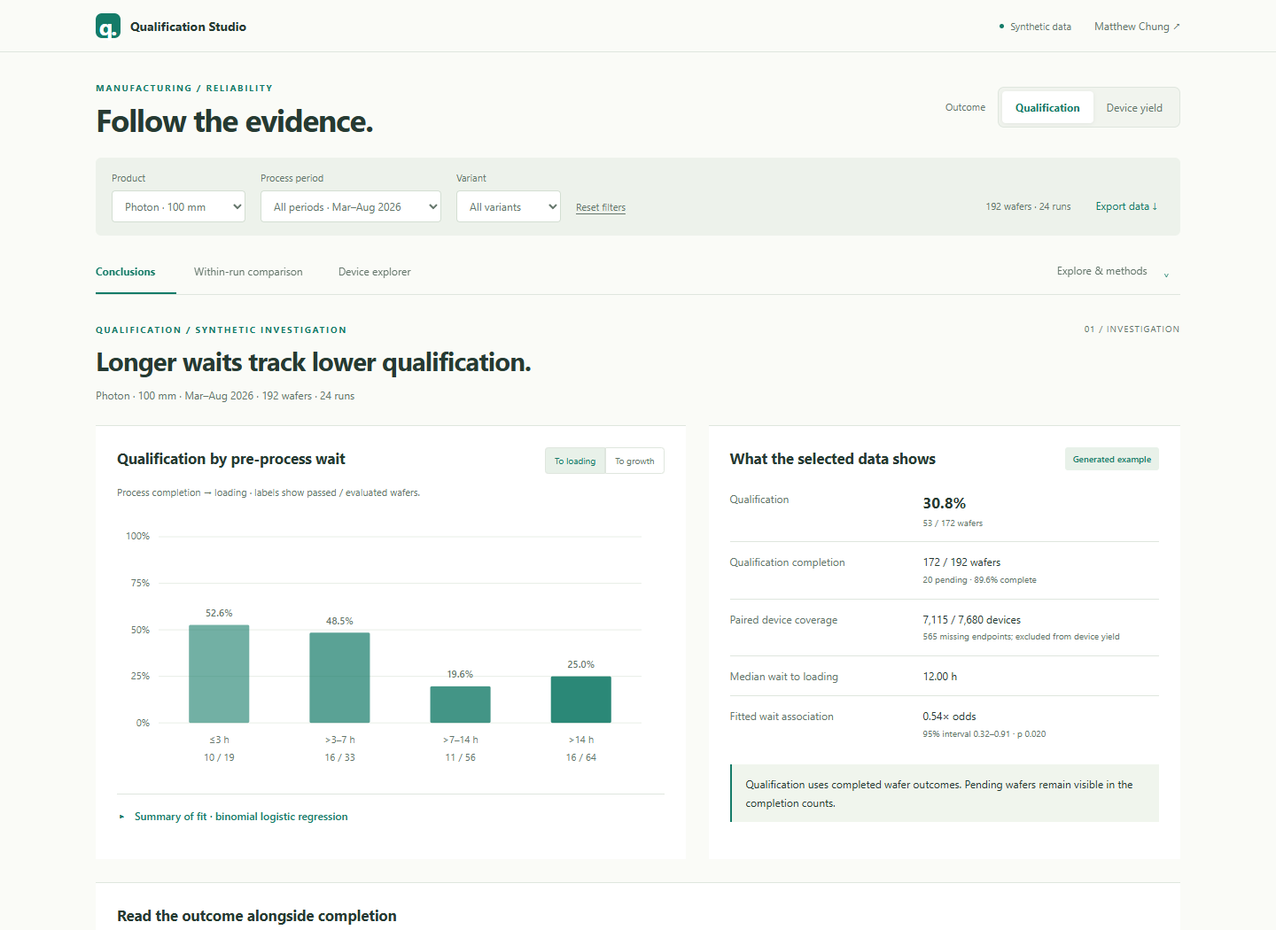
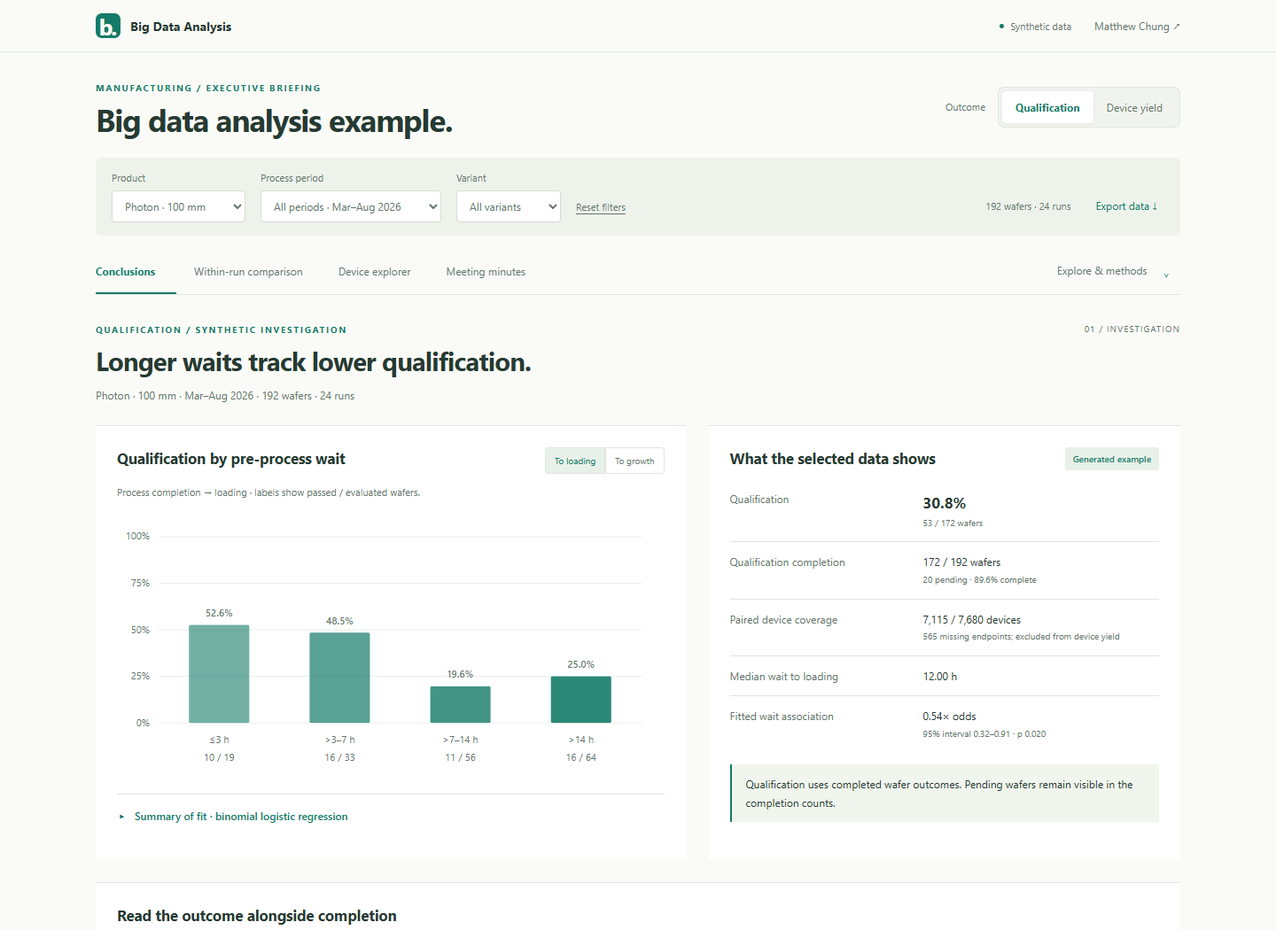
Frame demo as Big Data Analysis and add meeting follow-up
Link review decisions to analysis views and distinguish actual published changes
from illustrative minutes and browser-local visitor notes.

Changed region(s): [[0.0625, 0.0914, 0.3438, 0.1524], [0.0938, 0.0, 0.1875, 0.0305], [0.3438, 0.2743, 0.4062, 0.3048]]

diff --git a/demos/qualification-studio/dist/app.js b/demos/qualification-studio/dist/app.js
@@ -34,6 +34,10 @@ Object.keys(PRODUCTS).forEach((product,p)=>MONTHS.forEach((month,m)=>{
   }
 }));
 const state={product:'photon100',period:'all',variant:'all',metric:'qualification',view:'conclusions',endpoint:'wait',run:null,wafer:'all',search:'',page:0,sort:'id',asc:true};
+const NOTE_KEY='manufacturing-analysis-review-notes-v1';
+let reviewNotes=[];
+try{const stored=JSON.parse(localStorage.getItem(NOTE_KEY)||'[]');if(Array.isArray(stored))reviewNotes=stored.filter(n=>n&&typeof n.text==='string'&&typeof n.scope==='string'&&typeof n.id==='string'&&Number.isFinite(Date.parse(n.createdAt))).slice(-50);}catch{}
+let noteMessage='';
 const $=s=>document.querySelector(s),$$=s=>[...document.querySelectorAll(s)];
 const selected=()=>WAFERS.filter(w=>(state.product==='all'||w.product===state.product)&&(state.period==='all'||w.monthIndex===+state.period)&&(state.variant==='all'||w.variant===state.variant));
 function counts(wafers){if(state.metric==='bi')return {passed:sum(wafers.map(w=>w.passed)),tested:sum(wafers.map(w=>w.tested)),unit:'devices'};const done=wafers.filter(w=>w.status!=='Pending');return {passed:done.filter(w=>w.status==='Pass').length,tested:done.length,unit:'wafers'};}
@@ -42,7 +46,7 @@ const badge=s=>`<span class="result ${s==='Non-pass'?'fail':s==='Pending'?'pendi
 const context=rows=>`${state.product==='all'?'All products':PRODUCTS[state.product]} · ${state.period==='all'?'Mar–Aug 2026':MONTHS[+state.period]} · ${fmt(rows.length)} wafers · ${new Set(rows.map(w=>w.run)).size} runs`;
 function head(title,rows,number='01'){return `<div class="section-head"><div><span class="eyebrow">${escape(metricLabel().toUpperCase())} / SYNTHETIC INVESTIGATION</span><h2>${title}</h2><p class="context">${escape(context(rows))}</p></div><span class="section-number">${number} / INVESTIGATION</span></div>`;}
 function table(headers,rows){return `<div class="table-scroll"><table class="data-table"><thead><tr>${headers.map(h=>`<th scope="col">${h}</th>`).join('')}</tr></thead><tbody>${rows.map(r=>`<tr>${r.map(c=>`<td>${c}</td>`).join('')}</tr>`).join('')}</tbody></table></div>`;}
-function panel(title,body){return `<section class="panel"><h3>${title}</h3>${body}</section>`;}
+function panel(title,body,id=''){return `<section class="panel"${id?` id="${escape(id)}"`:''}><h3>${title}</h3>${body}</section>`;}
 const note=s=>`<p class="small-note">${s}</p>`;
 function svg(body,label,w=720,h=350){return `<svg viewBox="0 0 ${w} ${h}" role="img" aria-label="${escape(label)}">${body}</svg>`;}
 const t=(x,y,s,opts='')=>`<text x="${x}" y="${y}" font-size="13" fill="${C.muted}" ${opts}>${escape(s)}</text>`;
@@ -106,7 +110,19 @@ function recordsView(rows){const filtered=rows.filter(w=>`${w.id} ${w.run} ${w.s
   return head('Every number has a source row.',rows,'04')+`<section class="panel"><div class="toolbar"><label>Find a wafer or run<input id="record-search" type="search" placeholder="e.g. DEMO-0001" value="${escape(state.search)}"></label><button class="export-button" data-export="wafers">Export selected cohort · CSV ↓</button></div>${table([sort('Wafer','id'),sort('Run','run'),'Variant','Period',sort('Wait to load','wait'),sort('Qualification','status'),sort('Device yield','yield')],sliced.map(w=>[waferLink(w),w.run,w.variant,w.month,fmt(w.wait,2)+' h',badge(w.status),`${percent(w.passed,w.tested)} (${w.passed}/${w.tested})`]))}<div class="pagination"><span>${fmt(filtered.length)} matching wafers · page ${state.page+1} of ${pages}</span><button data-page="-1" ${state.page===0?'disabled':''}>← Previous</button><button data-page="1" ${state.page===pages-1?'disabled':''}>Next →</button></div></section>`;
 }
 function methodsView(rows){return head('Definitions stay close to the evidence.',rows,'05')+panel('What this demo measures',`<dl class="definition-list"><dt>Qualification</dt><dd>Passed wafers divided by completed wafer outcomes. Pending results are excluded from this denominator and shown separately.</dd><dt>Device yield</dt><dd>Passing devices divided by devices with an evaluable baseline/24-hour pair. Both fictional limits must be met: drive drift &lt; ${LIMITS.drift}; response retention &gt; ${LIMITS.retention}. These are demo limits, not operating specifications.</dd><dt>Waiting intervals</dt><dd>Elapsed hours from a fictional preparation step to recorded loading or growth start. Both endpoints are retained on every wafer row.</dd><dt>Run quarters</dt><dd>Each generated run has eight wafers. Positions 1–2 form Q1, 3–4 form Q2, 5–6 form Q3, and 7–8 form Q4. Filtering an outcome does not renumber original positions.</dd><dt>Recent completion</dt><dd>The generator makes recent results less complete, with failures tending to resolve sooner. Completion counts make that selection visible.</dd><dt>Fitted association</dt><dd>A two-parameter binomial logistic model uses an intercept and log₂(1 + wait hours). Device fits use passing/tested counts. Sandwich uncertainty is clustered by run. Odds ratios refer to odds, not direct multiples of the qualification rate.</dd><dt>Synthetic boundary</dt><dd>All ${WAFERS.length} wafers, ${new Set(WAFERS.map(w=>w.run)).size} runs, and ${fmt(CHIPS.length)} device records are generated deterministically in your browser. There are no database connections, production records, or real engineering conclusions.</dd><dt>Scope</dt><dd>This independent demo demonstrates investigation and presentation patterns. Its small model does not reproduce the internal application's production models, process rules, or source systems.</dd></dl>`)+panel('Use the product',`<p class="context">Change product, period, or variant to select a cohort. Switch outcomes to compare wafer Qualification with device yield. Open a run to see its wafer positions, then click a wafer to inspect paired measurements. CSV exports preserve the selected cohort.</p><p><a href="https://github.com/4sy8zwp9hz-netizen/manufacturing-software-portfolio/tree/main/demos/qualification-studio">Inspect the complete demo source ↗</a></p>`);}
-function render(){const rows=selected();$('#scope-count').textContent=`${fmt(rows.length)} wafers · ${new Set(rows.map(w=>w.run)).size} runs`;$$('[data-metric]').forEach(b=>b.setAttribute('aria-pressed',String(b.dataset.metric===state.metric)));$$('[role=tab]').forEach(b=>b.setAttribute('aria-selected',String(b.dataset.view===state.view)));$('#explore-menu').classList.toggle('active',['records','methods'].includes(state.view));const content=$('#content');content.dataset.view=state.view;content.setAttribute('aria-label',({conclusions:'Conclusions',runs:'Within-run comparison',devices:'Device explorer',records:'Wafer records',methods:'Definitions and methods'})[state.view]);content.innerHTML=rows.length?({conclusions,runs:runsView,devices:devicesView,records:recordsView,methods:methodsView})[state.view](rows):'<div class="empty">No wafers match this selection. Try resetting the filters.</div>';$('#tooltip').hidden=true;}
+function minutesView(rows){
+  const feedback=[
+    ['Executive presentation','Lead with the conclusion and the counts behind it.','A concise readout, followed by charts and expandable fit details.','conclusions','Open the briefing'],
+    ['Comparable evidence','Compare run mates before interpreting the position trend.','Quarter summaries, run-level comparisons, and every wafer in a selected run.','runs','Compare run mates'],
+    ['Auditable conclusions','Inspect the measurements and their denominator.','Paired device readings, missing-data coverage, and CSV export.','devices','Inspect devices'],
+  ];
+  const draftItems=reviewNotes.slice().reverse().map(n=>`<li><div><time datetime="${escape(n.createdAt)}">${escape(new Intl.DateTimeFormat(undefined,{dateStyle:'medium',timeStyle:'short'}).format(new Date(n.createdAt)))}</time><button class="text-button" data-remove-note="${escape(n.id)}" aria-label="Remove local note">Remove</button></div><p>${escape(n.text)}</p><small>${escape(n.scope)}</small></li>`).join('');
+  return `<div class="section-head"><div><span class="eyebrow">REVIEW / DECISIONS / FOLLOW-UP</span><h2>A review becomes a visible update.</h2><p class="context">Discussion, decisions, and the evidence to revisit.</p></div><span class="status-tag">Current release · October 15, 2026</span></div>`+
+    `<section class="panel"><div class="panel-title"><h3>Illustrative engineering review</h3><span class="status-tag">Example minutes</span></div>${note('Sample discussion points demonstrate the workflow; they are not a record of a production meeting.')}${table(['Discussion','Decision','Available in the demo','Evidence'],feedback.map(r=>[r[0],r[1],r[2],`<button class="link-button" data-view="${r[3]}">${r[4]} ↗</button>`]))}</section>`+
+    `<div class="section-grid"><section class="panel"><h3>Published follow-up</h3><p class="small-note">Actual changes to this public portfolio demo.</p><ol class="release-list"><li><time>October 15, 2026</time><strong>Working example published</strong><p>Replaced an explanation-only entry with an interactive application: filters, outcome switching, charts, drilldowns, and exports.</p></li><li><time>October 15, 2026 · Review follow-up</time><strong>Big Data Analysis — Interactive Example</strong><p>Updated the title and framing around executive presentation, manufacturing data analysis, clear conclusions, and interactive review. Added this Meeting minutes tab in response to portfolio feedback.</p></li></ol><div class="callout">Review feedback becomes a published revision. Filters recalculate charts immediately; shared content changes when a new version is published.</div></section>`+
+    `<section class="panel"><h3>Try capturing a review note</h3>${note('Saved only in this browser. Visitor notes are never published to the shared site.')}<form id="minutes-form"><label for="review-note">Discussion or follow-up</label><textarea id="review-note" name="note" rows="3" maxlength="600" required placeholder="What should we investigate next?"></textarea><div class="note-form-footer"><span>${escape(context(rows))}</span><button type="submit" class="export-button">Save local note</button></div></form><p id="note-status" class="small-note" role="status">${escape(noteMessage)}</p><ul class="review-notes">${draftItems||'<li class="no-notes">No local notes yet. Add one to try the review workflow.</li>'}</ul></section></div>`;
+}
+function render(){const rows=selected();$('#scope-count').textContent=`${fmt(rows.length)} wafers · ${new Set(rows.map(w=>w.run)).size} runs`;$$('[data-metric]').forEach(b=>b.setAttribute('aria-pressed',String(b.dataset.metric===state.metric)));$$('[role=tab]').forEach(b=>b.setAttribute('aria-selected',String(b.dataset.view===state.view)));$('#explore-menu').classList.toggle('active',['records','methods'].includes(state.view));const content=$('#content');content.dataset.view=state.view;content.setAttribute('aria-label',({conclusions:'Conclusions',runs:'Within-run comparison',devices:'Device explorer',minutes:'Meeting minutes',records:'Wafer records',methods:'Definitions and methods'})[state.view]);content.innerHTML=(rows.length||state.view==='minutes')?({conclusions,runs:runsView,devices:devicesView,minutes:minutesView,records:recordsView,methods:methodsView})[state.view](rows):'<div class="empty">No wafers match this selection. Try resetting the filters.</div>';$('#tooltip').hidden=true;}
 function setView(view){state.view=view;location.hash=view==='conclusions'?'':view;render();const el=$('#content');el.classList.remove('view-enter');void el.offsetWidth;el.classList.add('view-enter');$$('details[open]').forEach(d=>d.open=false);const anchor=$('#nav-anchor').getBoundingClientRect().top+scrollY;if(scrollY>anchor+80)window.scrollTo({top:anchor,behavior:matchMedia('(prefers-reduced-motion: reduce)').matches?'instant':'smooth'});}
 function exportCSV(kind){let rows=selected(),records,name;if(kind==='visible-chips'&&state.wafer!=='all')rows=rows.filter(w=>w.id===state.wafer);if(kind==='chips'||kind==='visible-chips'){name='synthetic-device-records.csv';records=rows.flatMap(w=>w.chips).map(c=>({wafer:c.wafer,run:c.run,device:c.device,product:PRODUCTS[c.product],period:c.month,baseline_drive:c.baselineDrive,drive_24h:c.drive24,baseline_response:c.baselineResponse,response_24h:c.response24,drive_drift:c.drift,response_retention:c.retention,screen_pass:c.pass===null?'':c.pass}));}else{name='synthetic-wafer-records.csv';records=rows.map(w=>({wafer:w.id,run:w.run,product:PRODUCTS[w.product],variant:w.variant,period:w.month,position:w.position,quarter:w.quarter,wait_to_load_hours:w.wait,wait_to_growth_hours:w.growthWait,qualification:w.status,device_passed:w.passed,device_evaluable:w.tested,device_yield:w.tested?w.passed/w.tested:null,median_drive_drift:w.drift,median_response_retention:w.retention}));}if(!records.length)return;const fields=Object.keys(records[0]),cell=v=>'"'+String(v??'').replace(/"/g,'""')+'"',csv=[fields.join(','),...records.map(r=>fields.map(f=>cell(r[f])).join(','))].join('\r\n');const url=URL.createObjectURL(new Blob([csv],{type:'text/csv;charset=utf-8'})),a=document.createElement('a');a.href=url;a.download=name;a.click();setTimeout(()=>URL.revokeObjectURL(url),1000);$$('details[open]').forEach(d=>d.open=false);}
 MONTHS.forEach((m,i)=>$('#period').insertAdjacentHTML('beforeend',`<option value="${i}">${m}</option>`));
@@ -114,6 +130,9 @@ document.addEventListener('click',event=>{const b=event.target.closest('button')
 document.addEventListener('click',event=>{const target=event.target.closest('circle[data-wafer]');if(target){state.wafer=target.dataset.wafer;setView('devices');}});
 document.addEventListener('change',event=>{const id=event.target.id;if(['product','period','variant'].includes(id)){state[id]=event.target.value;state.page=0;render();}else if(id==='run-select'){state.run=event.target.value;render();}else if(id==='wafer-select'){state.wafer=event.target.value;render();}});
 document.addEventListener('input',event=>{if(event.target.id==='record-search'){const pos=event.target.selectionStart;state.search=event.target.value;state.page=0;render();const input=$('#record-search');input.focus();input.setSelectionRange(pos,pos);}});
+function saveReviewNotes(){try{localStorage.setItem(NOTE_KEY,JSON.stringify(reviewNotes));return true;}catch{return false;}}
+document.addEventListener('submit',event=>{if(event.target.id!=='minutes-form')return;event.preventDefault();const text=$('#review-note').value.trim().slice(0,600);if(!text)return;reviewNotes.push({id:'note-'+Date.now()+'-'+Math.random().toString(36).slice(2,7),createdAt:new Date().toISOString(),text,scope:context(selected())+' · '+metricLabel()});reviewNotes=reviewNotes.slice(-50);noteMessage=saveReviewNotes()?'Note saved in this browser. The public site has not changed.':'Browser storage is unavailable; the note is kept for this session only.';render();$('#review-note').focus();});
+document.addEventListener('click',event=>{const b=event.target.closest('[data-remove-note]');if(!b)return;reviewNotes=reviewNotes.filter(n=>n.id!==b.dataset.removeNote);noteMessage=saveReviewNotes()?'Local note removed.':'Local note removed for this session.';render();});
 $('#reset').addEventListener('click',()=>{Object.assign(state,{product:'photon100',period:'all',variant:'all',wafer:'all',page:0,search:'',run:null,endpoint:'wait'});$('#product').value=state.product;$('#period').value='all';$('#variant').value='all';render();});
 document.addEventListener('pointerdown',event=>$$('details[open]').forEach(d=>{if(!d.contains(event.target))d.open=false;}));
 document.addEventListener('keydown',event=>{if(event.key==='Escape')$$('details[open]').forEach(d=>{d.open=false;d.querySelector('summary').focus();});if(event.target.matches('[role=tab]')&&['ArrowLeft','ArrowRight','Home','End'].includes(event.key)){event.preventDefault();const tabs=$$('[role=tab]'),i=tabs.indexOf(event.target),n=event.key==='Home'?0:event.key==='End'?tabs.length-1:(i+(event.key==='ArrowRight'?1:-1)+tabs.length)%tabs.length;tabs[n].focus();setView(tabs[n].dataset.view);}});
@@ -122,6 +141,6 @@ document.addEventListener('pointerleave',()=>$('#tooltip').hidden=true);
 let lastY=scrollY,dir=0,startY=scrollY,scrollFrame=false;
 function navigation(){scrollFrame=false;const nav=$('#navigation'),y=scrollY,next=Math.sign(y-lastY);if(next&&next!==dir){dir=next;startY=lastY;}const top=$('#nav-anchor').getBoundingClientRect().top+y;if(y<top+50||nav.querySelector(':focus-visible,details[open]'))nav.classList.remove('hide-nav');else if(Math.abs(y-startY)>18)nav.classList.toggle('hide-nav',dir>0);lastY=y;}
 addEventListener('scroll',()=>{if(!scrollFrame){scrollFrame=true;requestAnimationFrame(navigation);}},{passive:true});
-addEventListener('hashchange',()=>{const view=location.hash.slice(1)||'conclusions';if(['conclusions','runs','devices','records','methods'].includes(view)&&view!==state.view){state.view=view;render();}});
-if(['runs','devices','records','methods'].includes(location.hash.slice(1)))state.view=location.hash.slice(1);
+addEventListener('hashchange',()=>{const view=location.hash.slice(1)||'conclusions';if(['conclusions','runs','devices','minutes','records','methods'].includes(view)&&view!==state.view){state.view=view;render();}});
+if(['runs','devices','minutes','records','methods'].includes(location.hash.slice(1)))state.view=location.hash.slice(1);
 render();

diff --git a/demos/qualification-studio/dist/index.html b/demos/qualification-studio/dist/index.html
@@ -3,16 +3,16 @@
 <head>
 <meta charset="utf-8"><meta name="viewport" content="width=device-width,initial-scale=1">
 <meta name="description" content="Explore a working semiconductor qualification investigation with synthetic wafer, process, and reliability data. A portfolio demo by Matthew Chung.">
-<meta name="theme-color" content="#fafbf7"><title>Qualification Studio · Matthew Chung</title>
-<link rel="icon" href="icon.svg" type="image/svg+xml"><link rel="stylesheet" href="styles.css"><script src="app.js" defer></script>
+<meta name="theme-color" content="#fafbf7"><title>Big Data Analysis — Interactive Example · Matthew Chung</title>
+<link rel="icon" href="icon.svg" type="image/svg+xml"><link rel="stylesheet" href="styles.css"><link rel="stylesheet" href="meeting.css"><script src="app.js" defer></script>
 </head>
 <body>
 <a class="skip" href="#content">Skip to analysis</a>
-<header><div class="header-inner"><a class="brand" href="#conclusions"><span class="brand-mark" aria-hidden="true">q.</span> Qualification Studio</a><div class="header-right"><span class="demo-badge"><span></span> Synthetic data</span><a href="https://github.com/4sy8zwp9hz-netizen/manufacturing-software-portfolio">Matthew Chung ↗</a></div></div></header>
+<header><div class="header-inner"><a class="brand" href="#conclusions"><span class="brand-mark" aria-hidden="true">b.</span> Big Data Analysis</a><div class="header-right"><span class="demo-badge"><span></span> Synthetic data</span><a href="https://github.com/4sy8zwp9hz-netizen/manufacturing-software-portfolio">Matthew Chung ↗</a></div></div></header>
 <main>
-<div class="intro"><div><span class="eyebrow">MANUFACTURING / RELIABILITY</span><h1>Follow the evidence.</h1></div><div class="metric-control"><span>Outcome</span><div class="segment" role="group" aria-label="Outcome metric"><button data-metric="qualification" aria-pressed="true">Qualification</button><button data-metric="bi" aria-pressed="false">Device yield</button></div></div></div>
+<div class="intro"><div><span class="eyebrow">MANUFACTURING / EXECUTIVE BRIEFING</span><h1>Big data analysis example.</h1></div><div class="metric-control"><span>Outcome</span><div class="segment" role="group" aria-label="Outcome metric"><button data-metric="qualification" aria-pressed="true">Qualification</button><button data-metric="bi" aria-pressed="false">Device yield</button></div></div></div>
 <section class="filters" aria-label="Analysis filters"><label>Product<select id="product"><option value="photon100">Photon · 100 mm</option><option value="photon75">Photon · 75 mm</option><option value="ridge75">Ridge · 75 mm</option><option value="all">All products</option></select></label><label>Process period<select id="period"><option value="all">All periods · Mar–Aug 2026</option></select></label><label>Variant<select id="variant"><option value="all">All variants</option><option value="Standard">Standard</option><option value="Plus">Plus</option></select></label><button id="reset" class="text-button">Reset filters</button><div class="filter-end"><span id="scope-count"></span><details class="export-menu"><summary>Export data ↓</summary><div class="menu-items"><button data-export="wafers">Wafer records · CSV</button><button data-export="chips">Device records · CSV</button></div></details></div></section>
-<div id="nav-anchor"></div><nav id="navigation" aria-label="Investigation views"><div role="tablist" aria-label="Primary analyses"><button role="tab" id="tab-conclusions" aria-controls="content" aria-selected="true" data-view="conclusions">Conclusions</button><button role="tab" id="tab-runs" aria-controls="content" aria-selected="false" data-view="runs">Within-run comparison</button><button role="tab" id="tab-devices" aria-controls="content" aria-selected="false" data-view="devices">Device explorer</button></div><details id="explore-menu"><summary>Explore &amp; methods <span aria-hidden="true">⌄</span></summary><div class="menu-items"><button data-view="records">Wafer records</button><button data-view="methods">Definitions &amp; methods</button><a href="https://github.com/4sy8zwp9hz-netizen/manufacturing-software-portfolio/tree/main/demos/qualification-studio">View demo source ↗</a></div></details></nav>
+<div id="nav-anchor"></div><nav id="navigation" aria-label="Investigation views"><div role="tablist" aria-label="Primary analyses"><button role="tab" id="tab-conclusions" aria-controls="content" aria-selected="true" data-view="conclusions">Conclusions</button><button role="tab" id="tab-runs" aria-controls="content" aria-selected="false" data-view="runs">Within-run comparison</button><button role="tab" id="tab-devices" aria-controls="content" aria-selected="false" data-view="devices">Device explorer</button><button role="tab" id="tab-minutes" aria-controls="content" aria-selected="false" data-view="minutes">Meeting minutes</button></div><details id="explore-menu"><summary>Explore &amp; methods <span aria-hidden="true">⌄</span></summary><div class="menu-items"><button data-view="records">Wafer records</button><button data-view="methods">Definitions &amp; methods</button><a href="https://github.com/4sy8zwp9hz-netizen/manufacturing-software-portfolio/tree/main/demos/qualification-studio">View demo source ↗</a></div></details></nav>
 <div id="content" role="tabpanel" tabindex="-1" aria-live="polite"></div>
 <footer><div><strong>Matthew Chung</strong><span>Quality engineering · Manufacturing analytics · Product design</span></div><p>Interactive portfolio demo. All wafers, measurements, dates, and relationships are generated examples, not production results.</p><a href="https://github.com/4sy8zwp9hz-netizen/manufacturing-software-portfolio">Back to portfolio ↗</a></footer>
 </main><div id="tooltip" role="tooltip" hidden></div>

diff --git a/demos/qualification-studio/dist/meeting.css b/demos/qualification-studio/dist/meeting.css
@@ -1,0 +1,1 @@
+.release-list{list-style:none;margin:0;padding:0}.release-list li{padding:17px 0 20px 17px;border-left:2px solid var(--line);position:relative}.release-list li:before{content:'';width:7px;height:7px;border-radius:50%;background:var(--teal);position:absolute;left:-4.5px;top:22px}.release-list time{display:block;color:var(--muted);font-size:10px;line-height:1.6;margin-bottom:6px}.release-list strong{font-size:14px;font-weight:650;line-height:1.5}.release-list p{font-size:12px;color:var(--muted);margin:8px 0 0}.review-notes{list-style:none;padding:0;margin:0}.review-notes li{border-top:1px solid var(--line);padding:16px 0}.review-notes li>div{display:flex;align-items:center;justify-content:space-between;gap:14px}.review-notes time,.review-notes small{font-size:10px;color:var(--muted)}.review-notes p{font-size:12px;white-space:pre-wrap;overflow-wrap:anywhere;margin:7px 0}.review-notes .text-button{font-size:10px;padding:0}.no-notes{font-size:11px;color:var(--muted);line-height:1.7}#minutes-form label{font-size:11px;color:var(--muted);display:block;margin:16px 0 8px}#review-note{width:100%;resize:vertical;border:1px solid var(--line);border-radius:4px;padding:12px;font:12px/1.65 "Segoe UI",Arial,sans-serif;color:var(--ink);background:var(--paper)}#review-note:focus-visible{outline:2px solid var(--teal);outline-offset:3px}.note-form-footer{display:flex;justify-content:space-between;align-items:center;gap:16px;margin-top:10px}.note-form-footer>span{font-size:10px;line-height:1.6;color:var(--muted)}[data-view=minutes]>.section-head{align-items:center}[data-view=minutes] .data-table td{vertical-align:top}[data-view=minutes] .data-table td:last-child{min-width:150px}[data-view=minutes] .data-table .link-button{text-align:left;line-height:1.6}@media(max-width:600px){[data-view=minutes]>.section-head{display:block}[data-view=minutes]>.section-head>.status-tag{margin-top:12px}.note-form-footer{align-items:start;flex-direction:column}.note-form-footer>button{align-self:end}}

diff --git a/README.md b/README.md
@@ -29,20 +29,21 @@ The usage figure shows adoption; it is not presented as measured labor savings o
 
 | Project | Engineering purpose |
 |---|---|
-| [Qualification Studio · live demo](https://qualification-studio.orange-rat-4119.chatgpt.site) | Reconcile process and reliability records, compare wafer and device endpoints, account for pending results and shared runs, and present auditable statistical evidence in a focused engineering interface. |
+| [Big Data Analysis · live demo](https://qualification-studio.orange-rat-4119.chatgpt.site) | Reconcile process and reliability records, compare wafer and device endpoints, account for pending results and shared runs, and present auditable statistical evidence in a focused engineering interface. |
 | [Grating Process Analytics](case-studies/GRATING_PROCESS_ANALYTICS.md) | Reconstruct repeated wafer process events, compare upstream conditions with downstream response, and present model diagnostics and a bounded recommendation for engineering review. |
 | [Lean Digital Operations](case-studies/LEAN_DIGITAL_OPERATIONS.md) | Make production priorities and shift handoff consistent through shared views, explicit time boundaries, and controlled submission. Recent tester tracking connects activity, changeovers, work-order history, and WIP. |
 | [Manufacturing Application Platform](case-studies/MANUFACTURING_APPLICATION_PLATFORM.md) | Move local tools through versioned releases into a common browser portal with health checks, logs, and recovery. Selected workloads split preparation and serving across two hosts with validated snapshot transfer and manual failover. |
 
-## Try the product: Qualification Studio
+## Try the product: Big Data Analysis
 
 **[Open the interactive demo](https://qualification-studio.orange-rat-4119.chatgpt.site)** · [Source code](demos/qualification-studio) · [Engineering notes](case-studies/QUALIFICATION_RELIABILITY_INVESTIGATION.md)
 
 Explore a working investigation: change products and periods, switch outcomes,
 compare run mates, inspect individual device measurements, and export the data.
+Meeting minutes connect review decisions to evidence and published follow-up.
 All records and screen limits are fictional.
 
-[![Qualification Studio running with synthetic data](assets/qualification-studio-demo.png)](https://qualification-studio.orange-rat-4119.chatgpt.site)
+[![Big Data Analysis interactive example with synthetic data](assets/qualification-studio-demo.png)](https://qualification-studio.orange-rat-4119.chatgpt.site)
 
 *Screenshot of the runnable public demo. Generated data only; no production interface or records.*
 

diff --git a/case-studies/QUALIFICATION_RELIABILITY_INVESTIGATION.md b/case-studies/QUALIFICATION_RELIABILITY_INVESTIGATION.md
@@ -20,7 +20,7 @@ The analysis distinguishes two endpoints: recorded wafer qualification and the f
 
 Process timing is also explicit. The application compares waiting intervals to different recorded process milestones, so engineers can see whether the choice of timestamp changes the result. Product families keep their own process definitions and comparison populations.
 
-[![Qualification Studio running with generated data](../assets/qualification-studio-demo.png)](https://qualification-studio.orange-rat-4119.chatgpt.site)
+[![Big Data Analysis example running with generated data](../assets/qualification-studio-demo.png)](https://qualification-studio.orange-rat-4119.chatgpt.site)
 
 *Screenshot of the runnable public synthetic demo. All displayed products, records, measurements, and relationships are fictional.*
 
@@ -57,7 +57,7 @@ Source manufacturing systems, physical testing, process operation, and final pro
 
 ## Public example
 
-Try [Qualification Studio](https://qualification-studio.orange-rat-4119.chatgpt.site) directly. The independent, buildless browser application includes filters, outcome switching, timing charts, completion context, run and device drilldowns, searchable wafer records, and CSV exports. Its synthetic generator and small binomial model are included in the [public source](../demos/qualification-studio). It demonstrates investigation patterns without reproducing production code, data, or process rules.
+Try [Big Data Analysis — Interactive Example](https://qualification-studio.orange-rat-4119.chatgpt.site) directly. The independent, buildless browser application includes filters, outcome switching, timing charts, completion context, run and device drilldowns, searchable wafer records, CSV exports, and meeting minutes linked to the evidence. The meeting tab separates illustrative engineering discussion, actual published revisions, and visitor notes saved only in their own browser. Its synthetic generator and small binomial model are included in the [public source](../demos/qualification-studio). It demonstrates investigation patterns without reproducing production code, data, or process rules.
 
 For related quality workflows, see [Wafer Quality Investigation](WAFER_QUALITY_INVESTIGATION.md). For a runnable public synthetic application, see the [Manufacturing Yield Platform](YIELD.md).
 

diff --git a/demos/qualification-studio/README.md b/demos/qualification-studio/README.md
@@ -1,8 +1,15 @@
-# Qualification Studio
+# Big Data Analysis — Interactive Example
 
 A working portfolio demo by Matthew Chung. Open the investigation, change product
 and period, switch between wafer Qualification and device yield, inspect run
 positions, open individual device measurements, and export the selected records.
+Meeting minutes link illustrative review decisions to the relevant analysis, while
+a published-change log records actual portfolio-demo updates. Visitors can save
+their own notes locally in the browser; those notes do not update the shared site.
+
+The example emphasizes executive presentation, manufacturing data analysis,
+clear conclusions, and interactive review. It is observational analysis, not a
+designed experiment or a demonstrated machine-learning training pipeline.
 
 All 576 wafers, 72 runs, and 23,040 device records are generated deterministically
 in the browser. Product names, measurements, outcomes, and screen limits are
